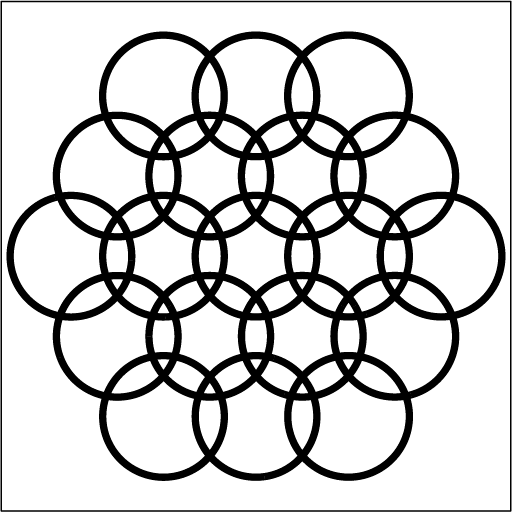
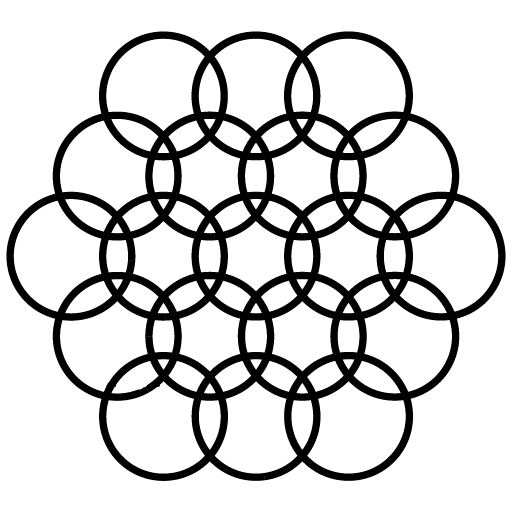
Removed tiling artifacts from predistorted texture.

Changed region(s): [[0.0, 0.0, 1.0, 1.0]]

diff --git a/src/cloth.cpp b/src/cloth.cpp
@@ -617,6 +617,7 @@ void Cloth::write_to_svg(string filename, string pngname) {
 	double rescale = width > height ? 512.0 / width : 512.0 / height;
 	double newWidth = width * rescale;
 	double newHeight = height * rescale;
+	int precision = 5;
 
 	ofstream f(filename);
 
@@ -639,25 +640,28 @@ void Cloth::write_to_svg(string filename, string pngname) {
 
   	// UV coordinates
   	f << "<textri texid=\"map\" uvs=\"";
-  	f << setprecision(15) << tri->pm1->uv.x - floor(tri->pm1->uv.x) << " ";
-  	f << setprecision(15) << tri->pm1->uv.y - floor(tri->pm1->uv.y) << " ";
-  	f << setprecision(15) << tri->pm2->uv.x - floor(tri->pm2->uv.x) << " ";
-  	f << setprecision(15) << tri->pm2->uv.y - floor(tri->pm2->uv.y) << " ";
-  	f << setprecision(15) << tri->pm3->uv.x - floor(tri->pm3->uv.x) << " ";
-  	f << setprecision(15) << tri->pm3->uv.y - floor(tri->pm3->uv.y) << "\" ";
 
-  	/*f << setprecision(15) << tri->pm1->uv.x << " " << setprecision(15) << tri->pm1->uv.y << " ";
-  	f << setprecision(15) << tri->pm2->uv.x << " " << setprecision(15) << tri->pm2->uv.y << " ";
-  	f << setprecision(15) << tri->pm3->uv.x << " " << setprecision(15) << tri->pm3->uv.y << "\" ";*/
+  	// With wrap-around
+  	/*f << setprecision(precision) << tri->pm1->uv.x - floor(tri->pm1->uv.x) << " ";
+  	f << setprecision(precision) << tri->pm1->uv.y - floor(tri->pm1->uv.y) << " ";
+  	f << setprecision(precision) << tri->pm2->uv.x - floor(tri->pm2->uv.x) << " ";
+  	f << setprecision(precision) << tri->pm2->uv.y - floor(tri->pm2->uv.y) << " ";
+  	f << setprecision(precision) << tri->pm3->uv.x - floor(tri->pm3->uv.x) << " ";
+  	f << setprecision(precision) << tri->pm3->uv.y - floor(tri->pm3->uv.y) << "\" ";*/
+
+		// Without wrap-around
+  	f << setprecision(precision) << tri->pm1->uv.x << " " << setprecision(precision) << tri->pm1->uv.y << " ";
+  	f << setprecision(precision) << tri->pm2->uv.x << " " << setprecision(precision) << tri->pm2->uv.y << " ";
+  	f << setprecision(precision) << tri->pm3->uv.x << " " << setprecision(precision) << tri->pm3->uv.y << "\" ";
 
   	// Points (removing the y as we assume the cloth/plastic starts off perfectly horizontal)
   	f << "points=\"";
-  	f << setprecision(15) << rescale * tri->pm1->start_position.x << " ";
-  	f << setprecision(15) << rescale * tri->pm1->start_position.z << " ";
-  	f << setprecision(15) << rescale * tri->pm2->start_position.x << " ";
-  	f << setprecision(15) << rescale * tri->pm2->start_position.z << " ";
-  	f << setprecision(15) << rescale * tri->pm3->start_position.x << " ";
-  	f << setprecision(15) << rescale * tri->pm3->start_position.z << "\"/>" << endl;
+  	f << setprecision(precision) << rescale * tri->pm1->start_position.x << " ";
+  	f << setprecision(precision) << rescale * tri->pm1->start_position.z << " ";
+  	f << setprecision(precision) << rescale * tri->pm2->start_position.x << " ";
+  	f << setprecision(precision) << rescale * tri->pm2->start_position.z << " ";
+  	f << setprecision(precision) << rescale * tri->pm3->start_position.x << " ";
+  	f << setprecision(precision) << rescale * tri->pm3->start_position.z << "\"/>" << endl;
   }
 
   f << "</svg>" << endl;

diff --git a/src/clothSimulator.cpp b/src/clothSimulator.cpp
@@ -325,9 +325,9 @@ void ClothSimulator::drawImage(GLShader &shader) {
     normals.col(i * 3 + 1) << n2.x, n2.y, n2.z;
     normals.col(i * 3 + 2) << n3.x, n3.y, n3.z;
 
-//		uvs.col(i * 3) 		 <<	fmod(tri->pm1->uv.x,1), fmod(tri->pm1->uv.y,1);
-//		uvs.col(i * 3 + 1) << fmod(tri->pm2->uv.x,1), fmod(tri->pm2->uv.y,1);
-//		uvs.col(i * 3 + 2) << fmod(tri->pm3->uv.x,1), fmod(tri->pm3->uv.y,1);
+		//uvs.col(i * 3) 		 <<	tri->pm1->uv.x - floor(tri->pm1->uv.x), tri->pm1->uv.y - floor(tri->pm1->uv.y);
+		//uvs.col(i * 3 + 1) << tri->pm2->uv.x - floor(tri->pm2->uv.x), tri->pm2->uv.y - floor(tri->pm2->uv.y);
+		//uvs.col(i * 3 + 2) << tri->pm3->uv.x - floor(tri->pm3->uv.x), tri->pm3->uv.y - floor(tri->pm3->uv.y);
 		
 		uvs.col(i * 3) 		 <<	tri->pm1->uv.x, tri->pm1->uv.y;
 		uvs.col(i * 3 + 1) << tri->pm2->uv.x, tri->pm2->uv.y;

diff --git a/ext/proj1/src/svg.cpp b/ext/proj1/src/svg.cpp
@@ -61,6 +61,8 @@ Color TexTri::color(Vector3D p_bary, Vector3D p_dx_bary, Vector3D p_dy_bary, Sam
   // Part 5: Fill this in with bilinear sampling.
   // Part 6: Fill this in with trilinear sampling as well.
   sp.p_uv = p0_uv*p_bary[0] + p1_uv*p_bary[1] + p2_uv*p_bary[2];
+  sp.p_uv[0] -= floor(sp.p_uv[0]);
+  sp.p_uv[1] -= floor(sp.p_uv[1]);
   sp.p_dx_uv = p0_uv*p_dx_bary[0] + p1_uv*p_dx_bary[1] + p2_uv*p_dx_bary[2];
   sp.p_dy_uv = p0_uv*p_dy_bary[0] + p1_uv*p_dy_bary[1] + p2_uv*p_dy_bary[2];
   return tex->sample(sp);

diff --git a/ext/proj1/src/svgparser.cpp b/ext/proj1/src/svgparser.cpp
@@ -480,7 +480,7 @@ void SVGParser::parseTexTri( XMLElement* xml, TexTri* ttri ) {
 
   stringstream points (xml->Attribute( "points" ));
 
-  double x, y;
+  float x, y;
   points >> x >> y; ttri->p0_svg = Vector2D(x,y);
   points >> x >> y; ttri->p1_svg = Vector2D(x,y);
   points >> x >> y; ttri->p2_svg = Vector2D(x,y);
